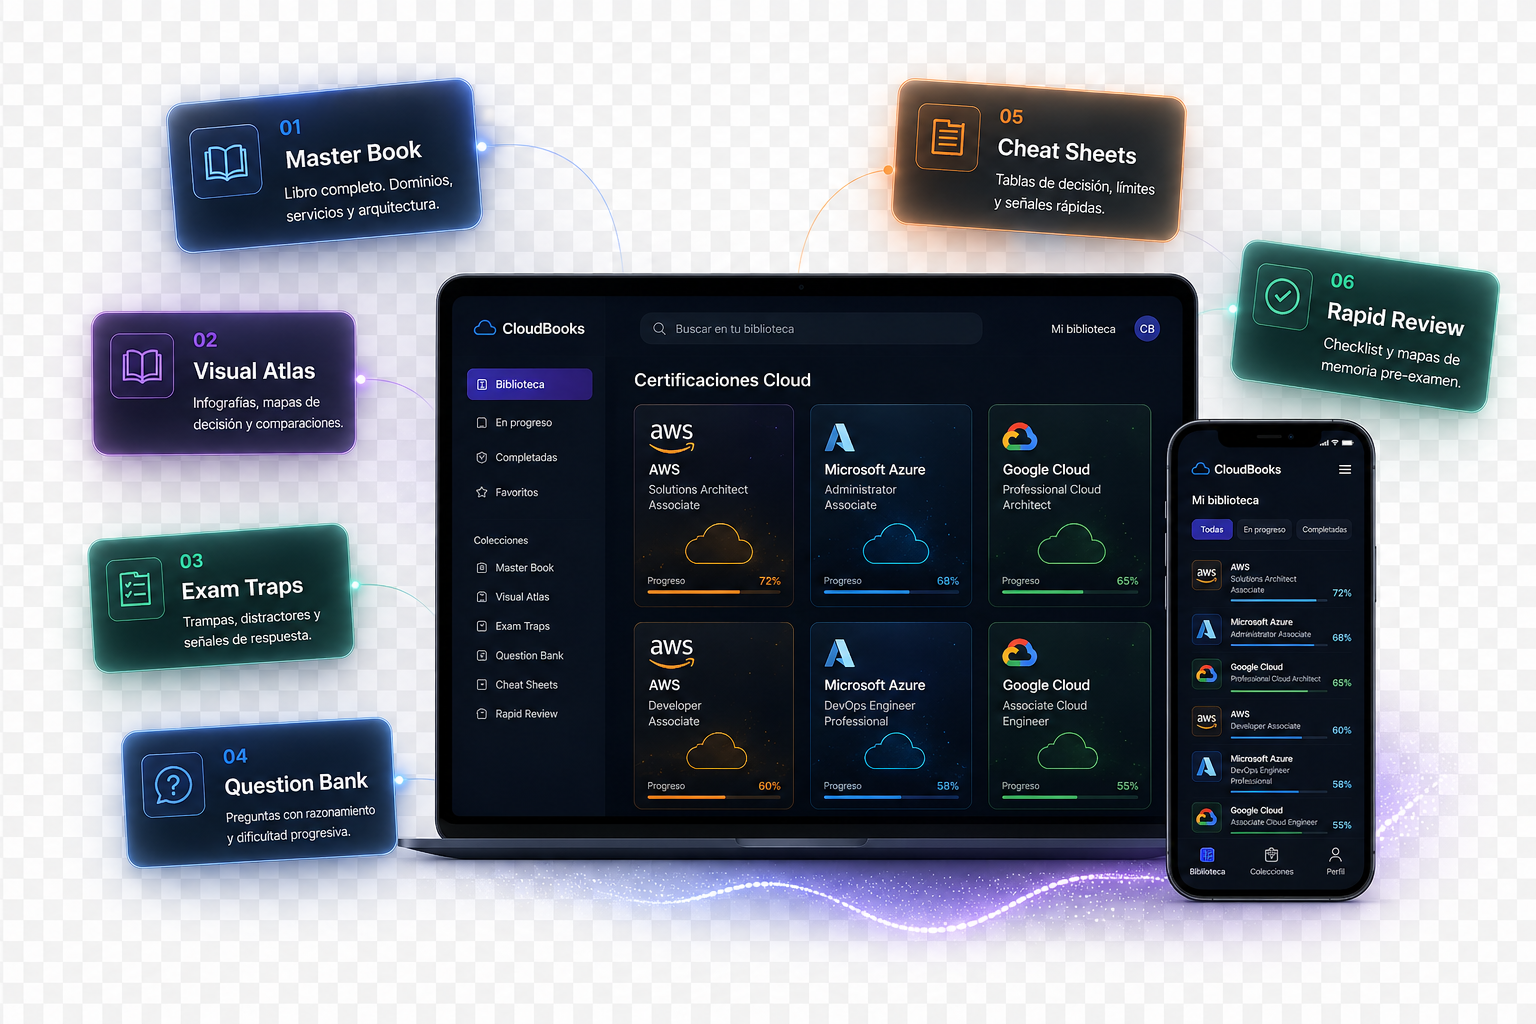
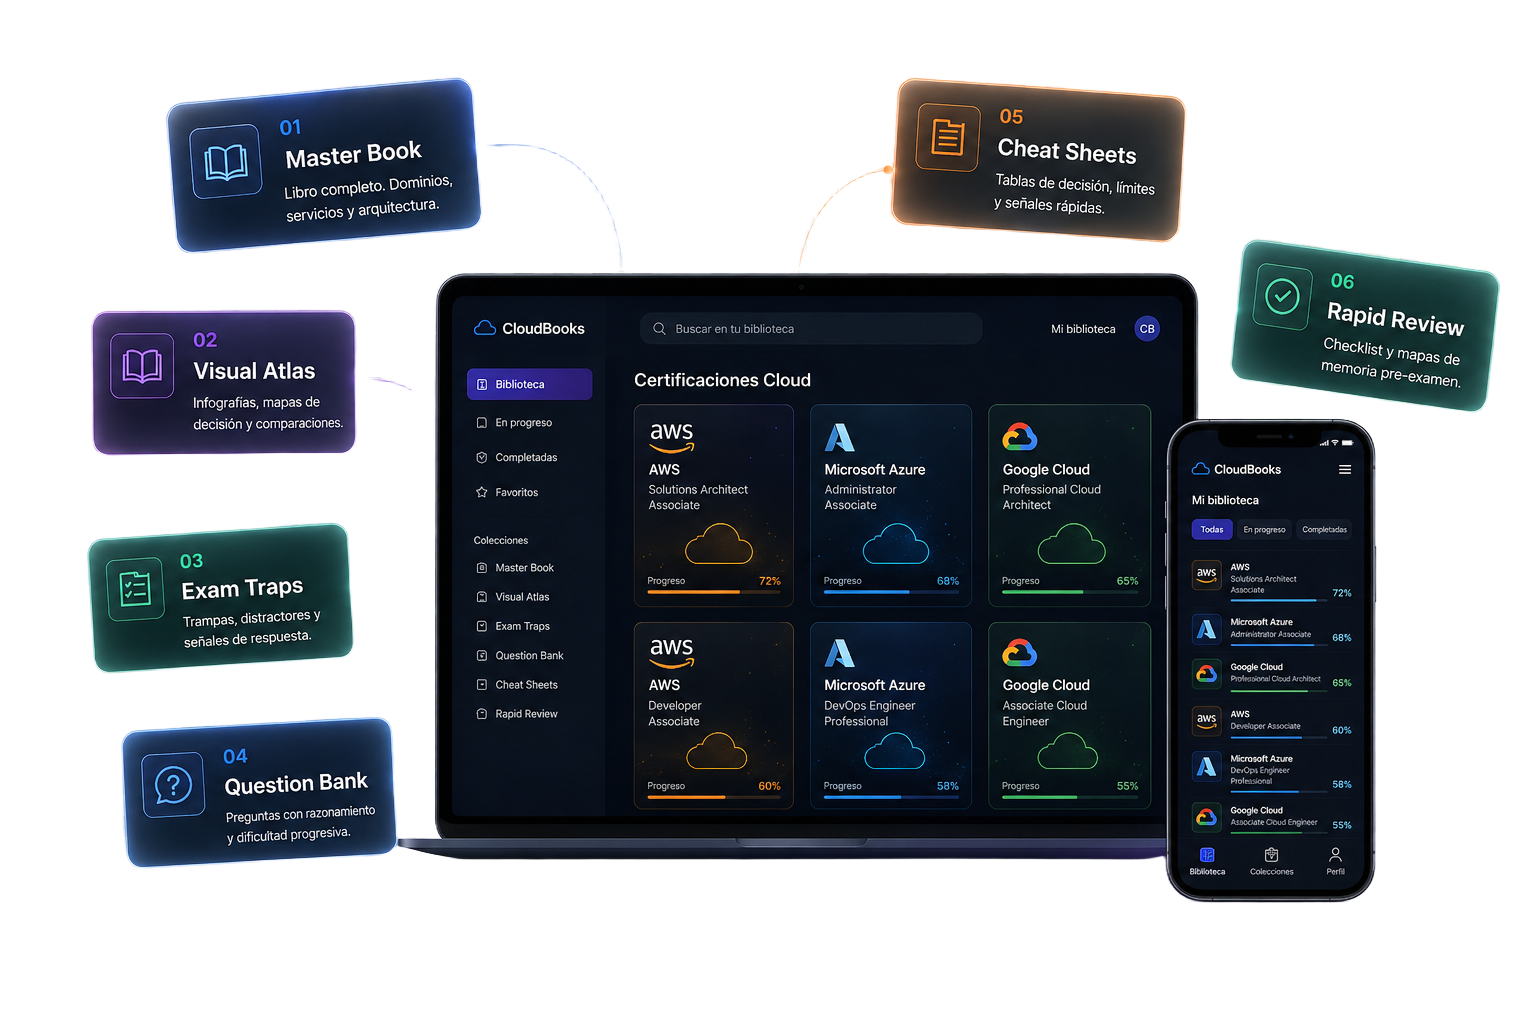
Update hero image and its container for better visual integration
Remove container styling from hero image and update the hero image asset to ensure proper integration with the dark theme.

Replit-Commit-Author: Agent
Replit-Commit-Session-Id: 41660dd9-494d-433b-a76e-301c5a583ebc
Replit-Commit-Checkpoint-Type: full_checkpoint
Replit-Commit-Event-Id: 2d22d64b-3333-42fd-b688-a09087d1a91e
Replit-Commit-Screenshot-Url: https://storage.googleapis.com/screenshot-production-us-central1/e0e01368-3555-4ada-92ec-2e87311be98f/41660dd9-494d-433b-a76e-301c5a583ebc/iiiacEi
Replit-Helium-Checkpoint-Created: true

Changed region(s): [[0.0312, 0.0625, 0.9375, 0.9375], [0.5625, 0.0938, 1.0, 0.4688], [0.5938, 0.0625, 0.75, 0.0938]]

diff --git a/artifacts/studio/src/pages/landing.tsx b/artifacts/studio/src/pages/landing.tsx
@@ -226,7 +226,7 @@ export default function Landing() {
 
             {/* ── Derecha: imagen hero ── */}
             <div className="relative hidden lg:flex items-center justify-center">
-              <div className="relative rounded-sm bg-[#11182a]/80 ring-1 ring-white/[0.08] p-3 backdrop-blur-sm">
+              <div className="relative">
                 <img
                   src="/hero-devices.png"
                   alt="CloudBooks — Biblioteca multi-formato en todos los dispositivos"
